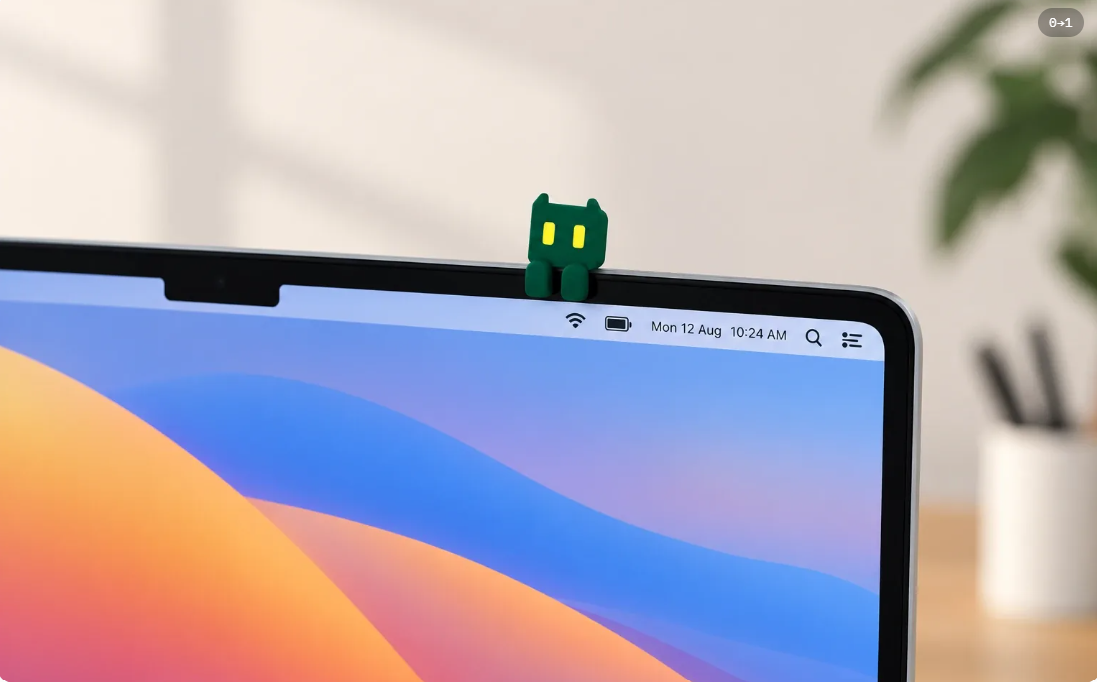
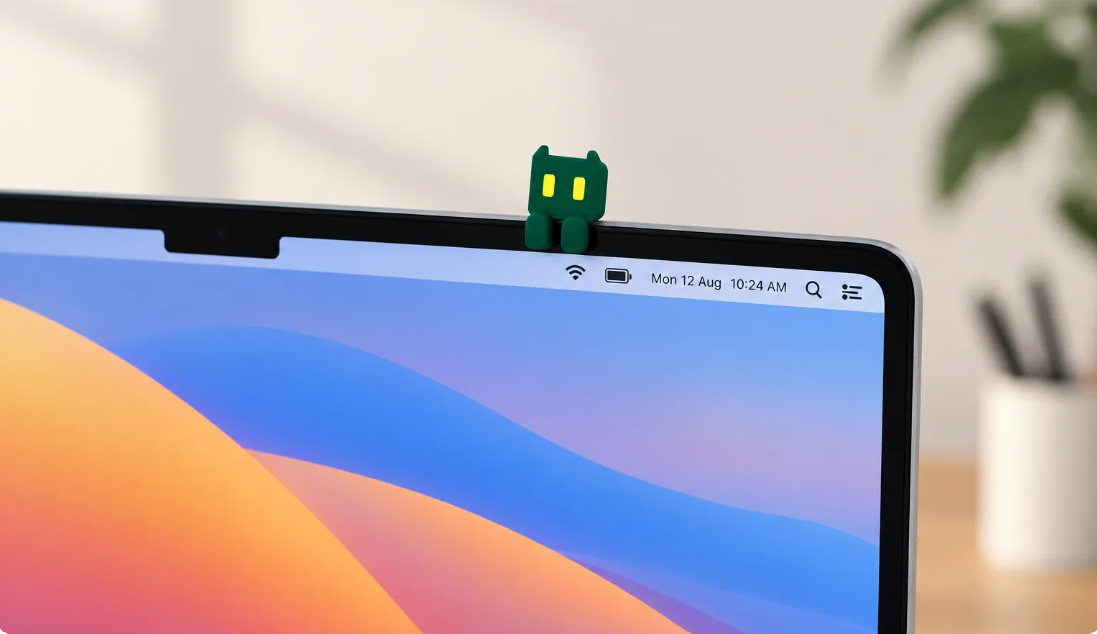
Prruf card uses the MacBook mascot photo
Claude-Session: https://claude.ai/code/session_01QBZZib9KCCBedNvbZQFBnX

diff --git a/index.html b/index.html
@@ -709,18 +709,8 @@
       <!-- Card 0: Prruf -->
       <a href="prruf.html" class="project-card reveal">
         <div>
-          <div class="mockup-container mockup-prruf">
-            <div class="mockup-placeholder" style="align-items:center;justify-content:center;display:flex;">
-              <div class="mini-prruf">
-                <div class="mini-prruf-bar"><i style="background:#ff5f57"></i><i style="background:#febc2e"></i><i style="background:#28c840"></i></div>
-                <div class="mini-prruf-body">
-                  <div class="mini-prruf-head"><span>Prruf</span><span class="mini-prruf-chip">● Capturing</span></div>
-                  <div class="mini-prruf-btn">Pause ⌘⌥S</div>
-                  <div class="mini-prruf-cap"><span>1:52 PM</span>Setting up the homepage layout in Figma</div>
-                  <div class="mini-prruf-cap"><span>2:03 PM</span>Drafting hero copy in Google Docs</div>
-                </div>
-              </div>
-            </div>
+          <div class="mockup-container" style="background:transparent">
+            <img src="assets/prruf-hero.png" alt="Prruf mascot on a MacBook" style="width:100%;height:100%;object-fit:cover;display:block">
           </div>
           <div class="card-header">
             <span class="card-title">Prruf</span>
